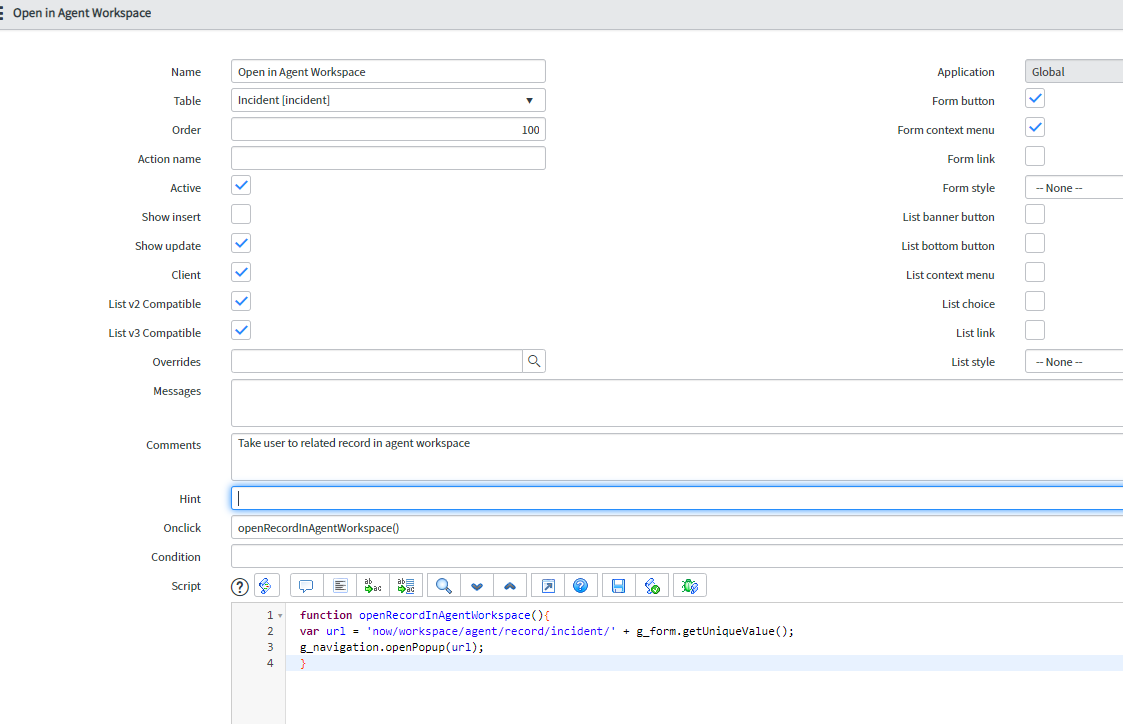
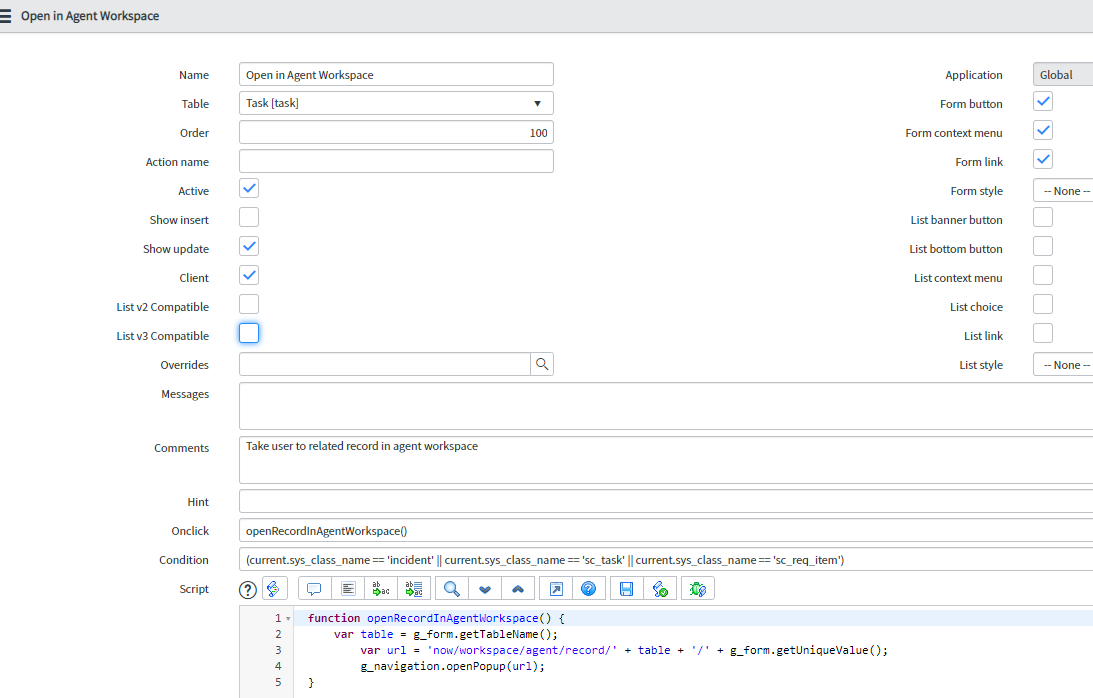
commit without detail

diff --git a/_posts/2021-01-02-servicenow-agent-workspace-or-standard-platform-why-not-both.md b/_posts/2021-01-02-servicenow-agent-workspace-or-standard-platform-why-not-both.md
@@ -10,9 +10,10 @@ Here is a screenshot of the UI action. Script is further down.
 
 The script
 ```
-function openRecordInAgentWorkspace(){
-var url = 'now/workspace/agent/record/incident/' + g_form.getUniqueValue();
-g_navigation.openPopup(url);
+function openRecordInAgentWorkspace() {
+    var table = g_form.getTableName();
+    var url = 'now/workspace/agent/record/' + table + '/' + g_form.getUniqueValue();
+    g_navigation.openPopup(url);
 }
 ```
 # Result
